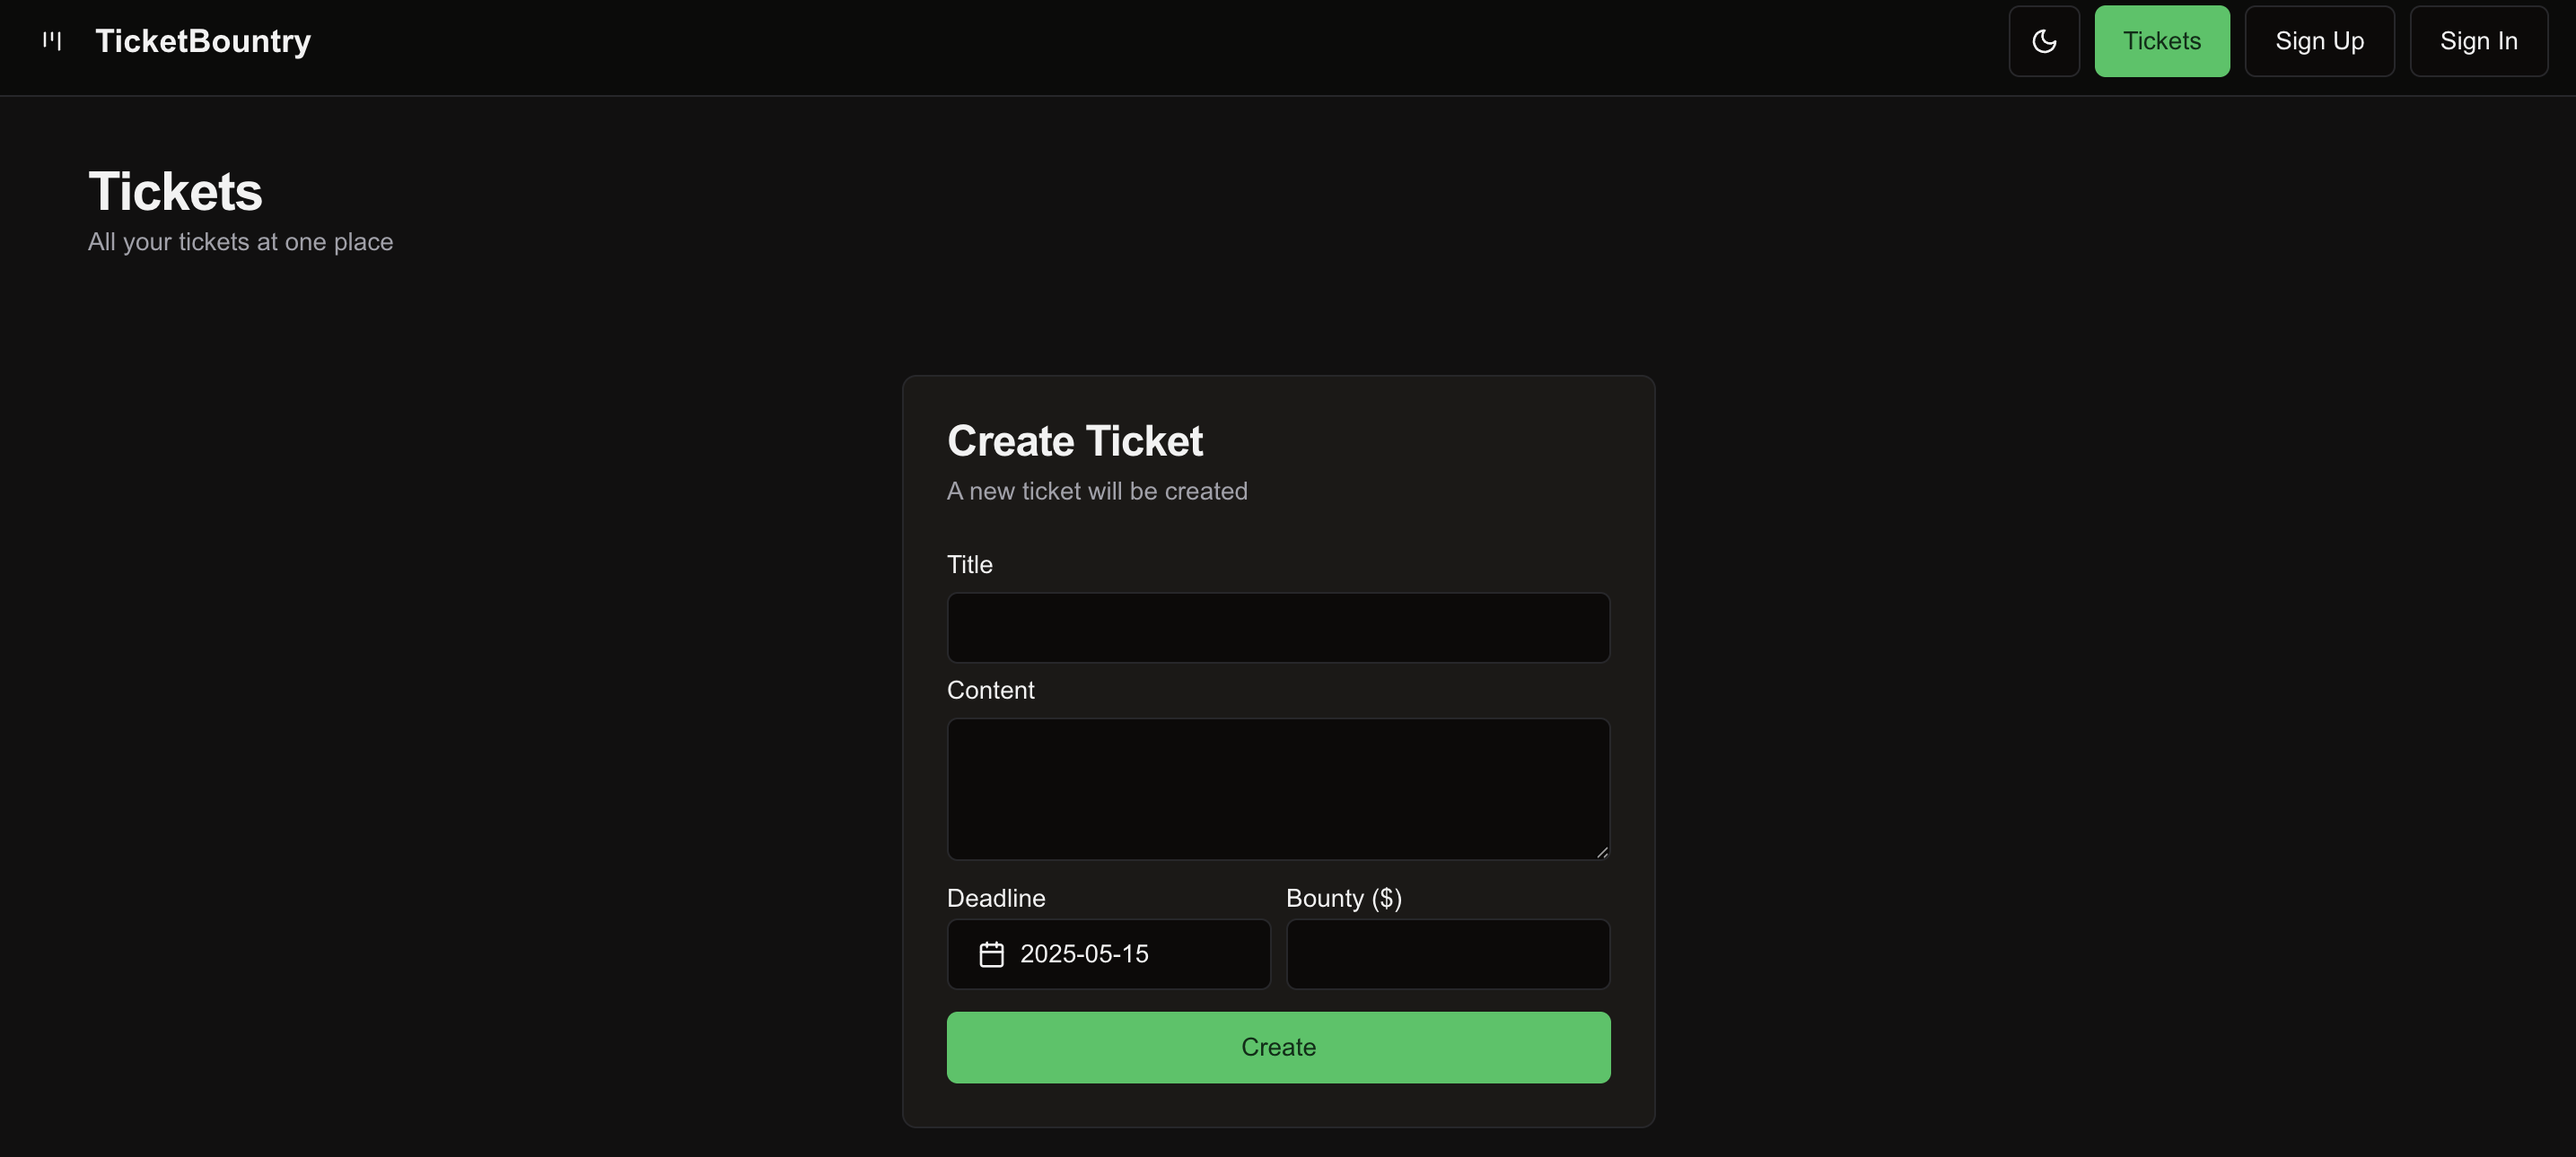
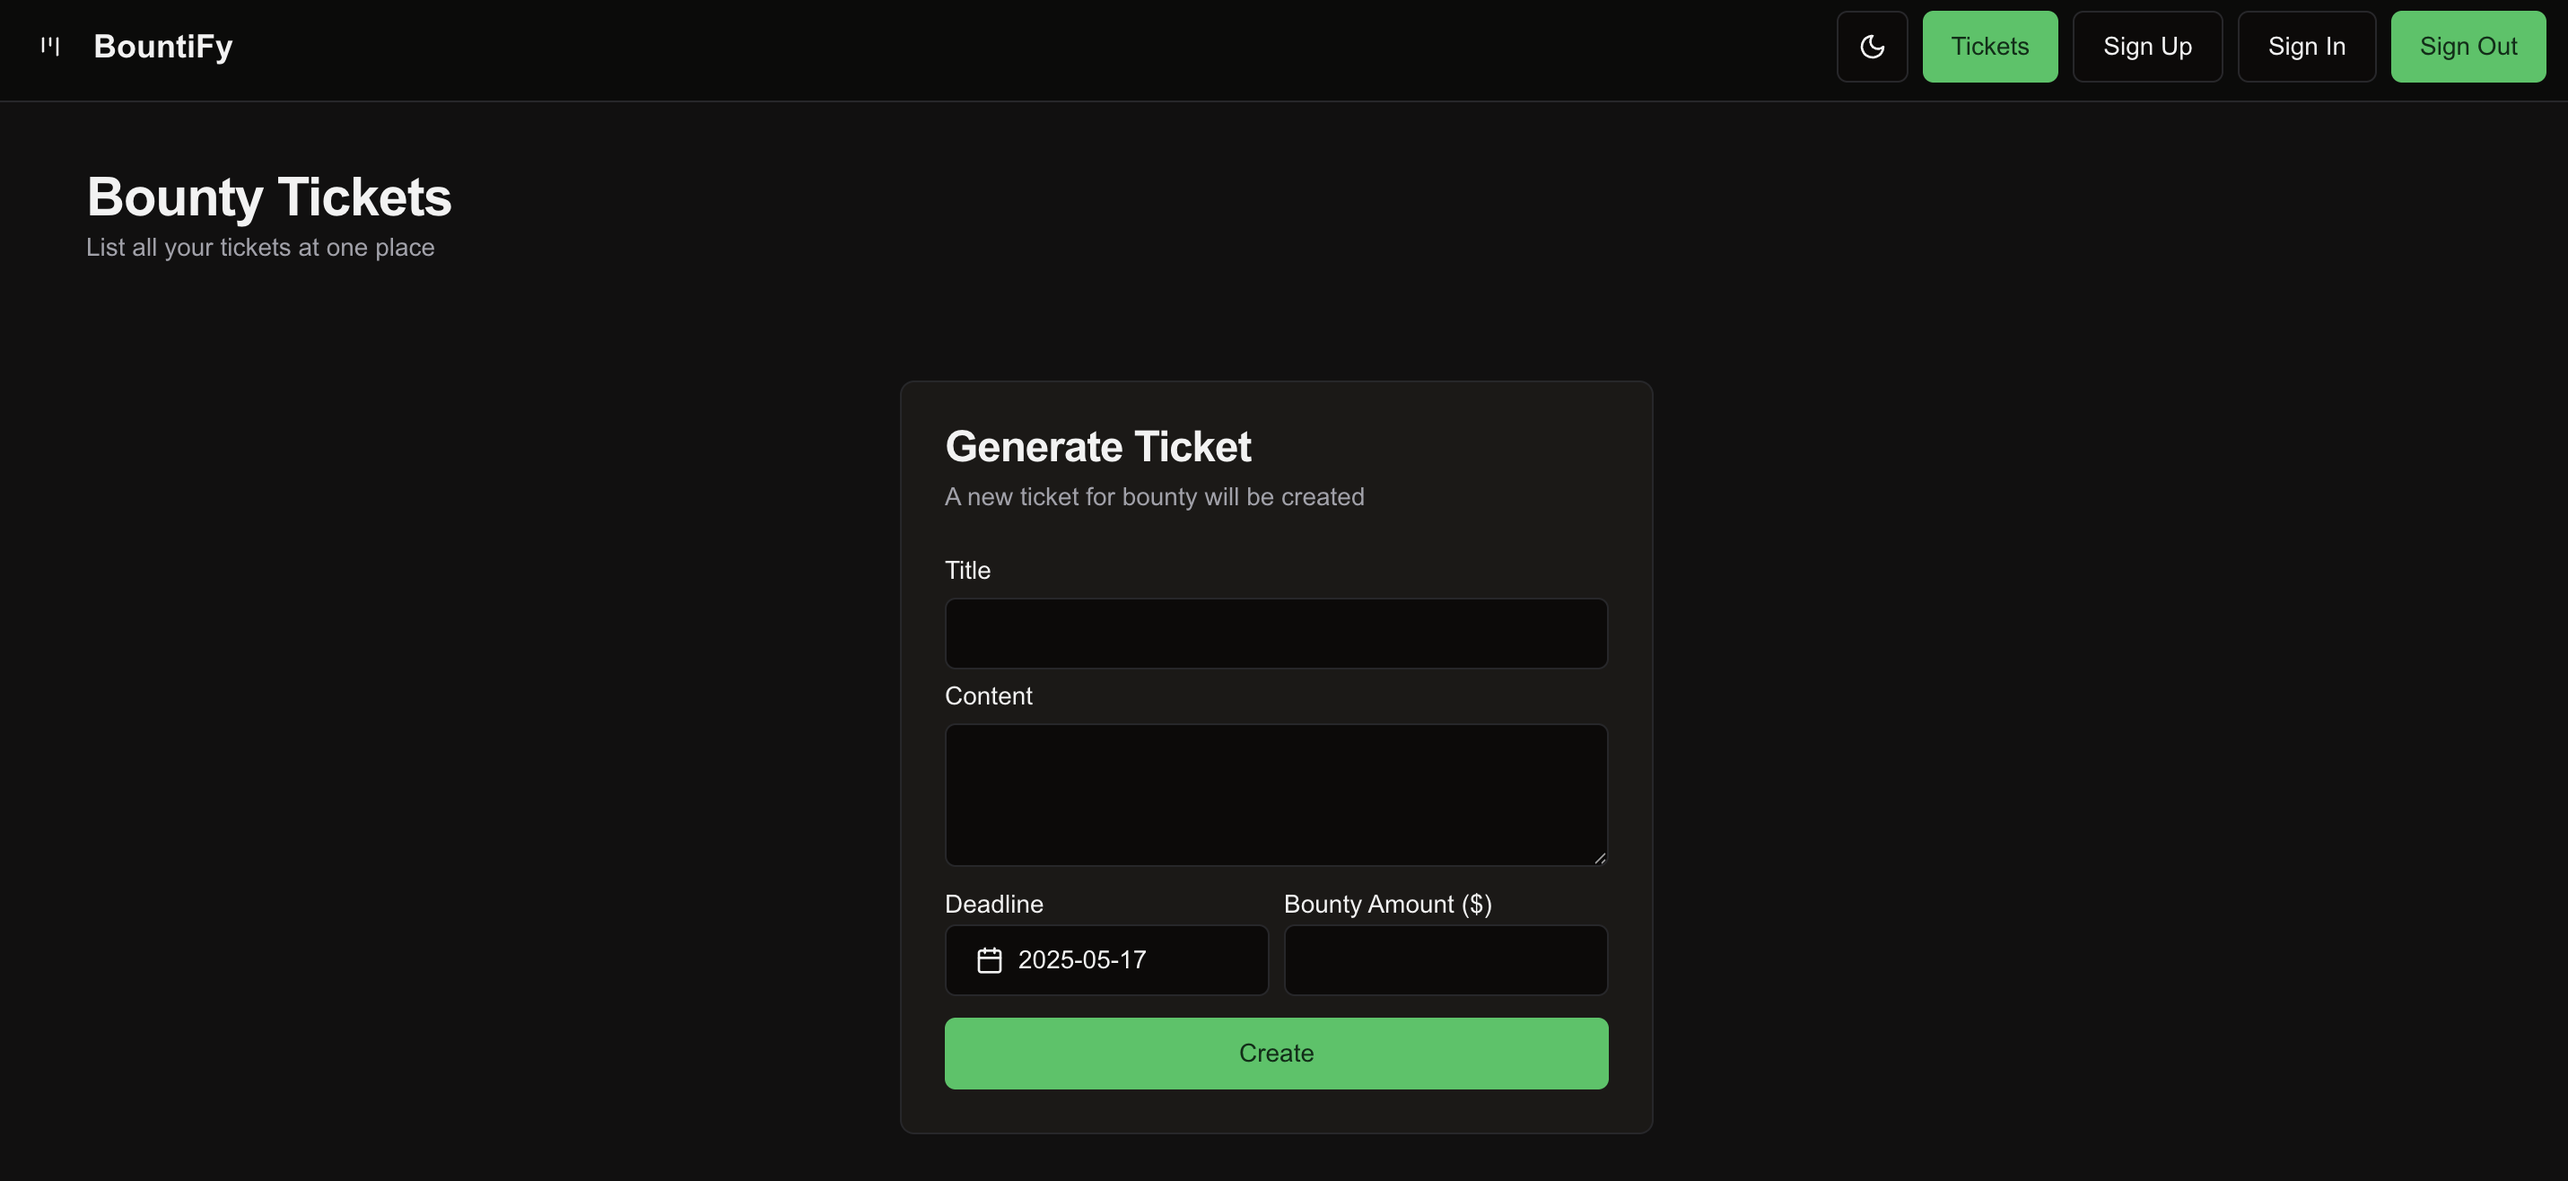
fix: image preview

diff --git a/src/data/index.ts b/src/data/index.ts
@@ -1,6 +1,6 @@
 export const projects = [
   {
-    title: "Ticket Bounty",
+    title: "BountiFy",
     description:
       "A modern ticketing platform built with Next.js 14, featuring server actions, authentication, and real-time notifications. Helps users discover and book events with a seamless checkout experience.",
     tech: [
@@ -12,8 +12,8 @@ export const projects = [
       "MongoDB",
       "Clerk Auth",
     ],
-    github: "https://github.com/apilacharya/Ticket-Bounty",
-    live: "https://road-to-next-pearl.vercel.app/",
+    github: "https://github.com/apilacharya/bountify",
+    live: "https://bountify-git-master-apil-acharyas-projects.vercel.app/",
     image: "/project1.png",
   },
   {
